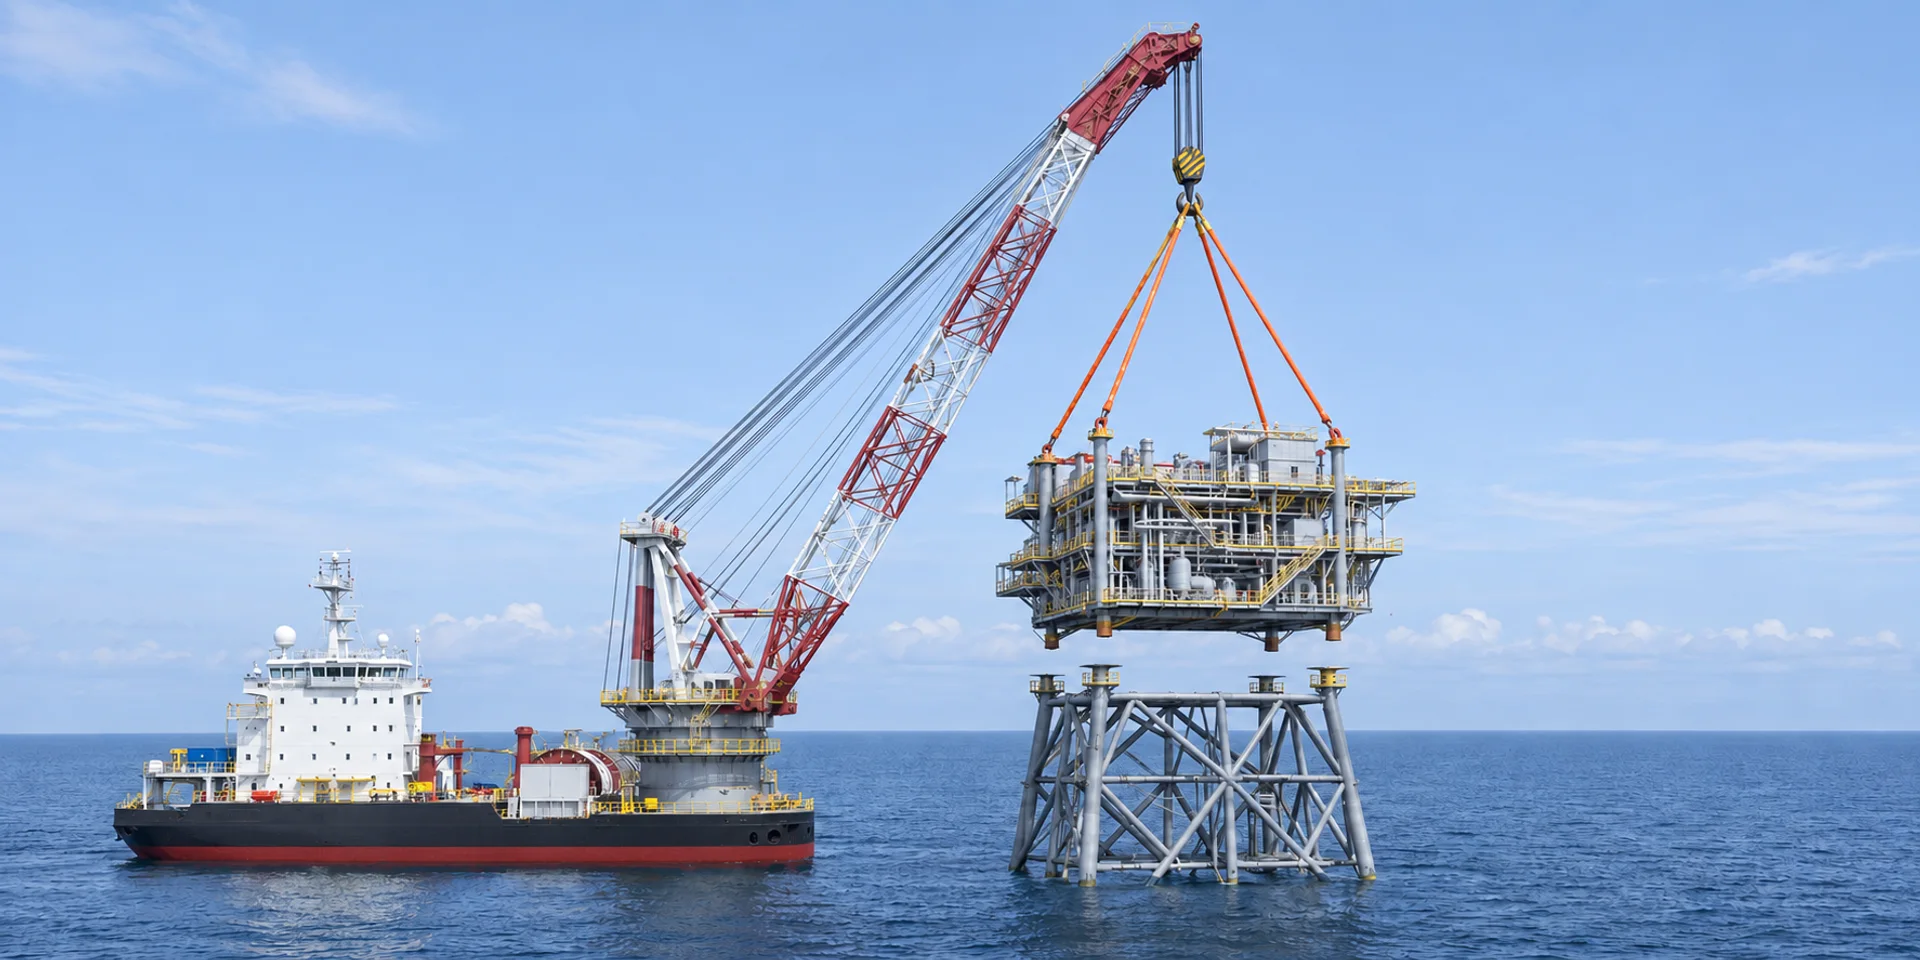
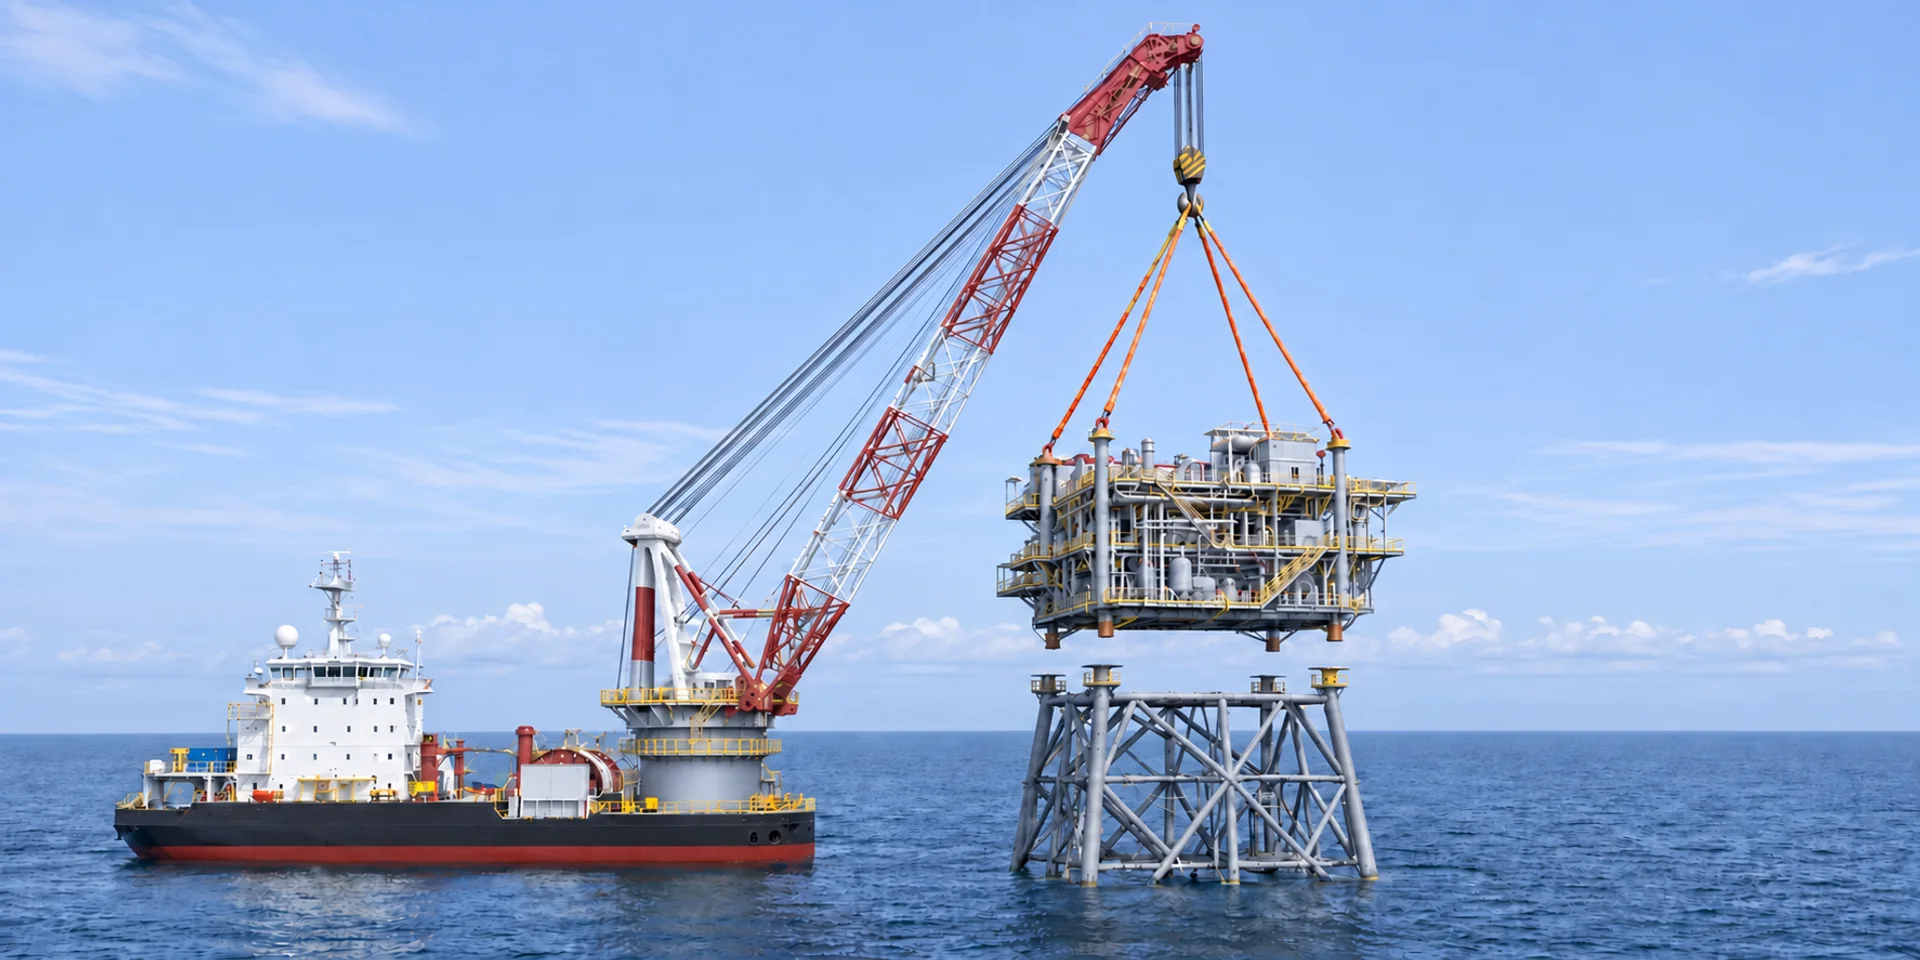
Journey: remove crane drum markings from development image

Changed region(s): [[0.0625, 0.0312, 1.0, 1.0], [0.0, 0.9062, 0.3438, 1.0]]

diff --git a/public/images/journey/README.md b/public/images/journey/README.md
@@ -12,7 +12,7 @@
 | --- | --- | --- | --- | --- |
 | journey-exploration.webp | 1600×1000 | 84 | 240122 | 0 |
 | journey-appraisal.webp | 1600×1000 | 84 | 178694 | 0 |
-| journey-development.webp | 1920×960 | 84 | 174174 | 1 |
+| journey-development.webp | 1920×960 | 84 | 158878 | 5 |
 | journey-production.webp | 1600×1000 | 84 | 290722 | 0 |
 | journey-decommissioning.webp | 1600×1000 | 84 | 215508 | 0 |
 
@@ -71,6 +71,32 @@ Fictional scene, not a real company, vessel or facility. No readable text, no nu
 Edit this fictional offshore installation photograph. Preserve the 2:1 framing, connected taut orange lifting slings, crane hook, complete topsides aligned over a steel jacket with legs entering the sea, lighting, sea and composition. Remove every painted white draft mark, vertical scale, cross-shaped marking, numeral-like marking and any glyph from the vessel hull, including near the bow, below the superstructure, and near the stern. Make the dark hull and red waterline completely plain and unmarked. Keep all equipment physically continuous and plausible. Fictional scene, not a real company, vessel or facility. No readable text, no numbers, no text-like markings, no hull names, no logos, no watermark, no borders, no visible faces.
 ```
 
+### journey-development · A-frame 윈치 드럼 표식 제거
+
+```text
+Edit only the small winch drum at the top of the crane's white A-frame, around x=640–690, y=515–535 in this 1920×960 photograph. Remove the red digit-like and logo-like painted marks on that drum and replace them with plain unmarked off-white paint matching the surrounding housing. Keep the drum shape, cables, railing, shading and mechanical details. Keep everything else unchanged: exact 2:1 composition and framing, vessel hull and superstructure, entire crane structure, connected lifting cables and orange slings, topsides, jacket legs and bracing, sky, sea, lighting and colors. Do not add any marks anywhere. Fictional scene, not a real company, vessel or facility. No readable text, no numbers, no text-like markings, no hull names, no logos, no watermark, no borders, no visible faces.
+```
+
+### journey-development · 크레인 페데스털 표식 제거 시도 (폐기)
+
+```text
+Make one tiny localized correction only to this fictional offshore installation photograph: on the pale gray cylindrical crane pedestal immediately above the deck railings, around x=720–740, y=785–800 in the 1920×960 source, remove the small dark bird-shaped/logo-like mark and replace it with continuous plain pale gray paint and natural shading. Keep the pedestal geometry and all railings unchanged. The winch drum at the top of the white A-frame must remain plain unmarked off-white paint. Preserve everything else: composition, vessel and its genuine round hawse openings, crane, cables, orange slings, topsides, jacket, sky, sea, lighting and color. Do not add letters, digits, logos, painted symbols or glyph-like markings anywhere. No readable text, no numbers, no text-like markings, no hull names, no logos, no watermark, no borders, no visible faces.
+```
+
+### journey-development · 크레인 페데스털 표식 제거 재시도
+
+```text
+Remove the small dark bird silhouette painted on the lowest pale gray cylindrical base of the crane, immediately ABOVE the yellow deck rail and just to the RIGHT of the white rectangular machinery housing. This is the lower crane pedestal on the ship, NOT the white A-frame winch high above it. Its lower curved gray surface must be entirely plain, smooth, unmarked gray paint with natural shading. Also keep the A-frame top winch drum entirely plain white without red markings. Change only this tiny painted silhouette. Keep the whole offshore installation photograph and all mechanical structures, vessels, crane, taut connected slings, topsides, jacket, sea and sky unchanged. No text, symbols, digits, logos, watermarks or glyph-like marks.
+```
+
+### journey-development · 윈치 드럼 붉은 표식 최종 제거
+
+```text
+Remove all red painted strokes from the small white winch drum/housing at the very top of the crane's white A-frame, just below the diagonal black suspension cables and above the white triangular supports. Make that small housing entirely plain off-white paint: absolutely no red dots, red strokes, lettering or logo-like paint there. Keep the lowest cylindrical gray crane pedestal plain and unmarked as it is now. Preserve everything else in the provided photograph, including composition, vessel, full crane, slings, module, jacket, sky and sea. No text, digits, logos, glyphs, watermark or borders.
+```
+
 ## 육안 검수
+
+2026-11-07 추가 검수: A-frame 상부 윈치 드럼의 붉은 숫자·로고형 표식을 내장 image_gen 수정 생성으로 제거했습니다. 확대 검사에서 발견한 하부 크레인 페데스털의 새 모양 표식도 제거했습니다. 첫 페데스털 수정본은 표식이 남아 폐기했고, 재시도 후 다시 생긴 드럼의 붉은 점을 최종 수정했습니다. 최종 WebP의 드럼 영역을 6배 확대하고 선체·상부 구조·페데스털·붐·후크를 확대해 확인했으며, 추가 글리프형 도장 표식은 발견하지 못했습니다. 선체의 둥근 계선용 개구부와 기계 부품·음영은 유지했습니다. 구도, 선박과 크레인, 연결된 슬링, 상부 설비와 재킷, 하늘과 바다는 유지했습니다.
 
 5장 모두 직접 확인했습니다. Exploration의 스트리머는 선미에서 이어지고, Appraisal의 코어는 원기둥·반원기둥 형태입니다. Development와 Decommissioning의 슬링은 후크에서 인양물까지 이어지며, Development의 재킷 다리는 물속으로 이어집니다. Production의 배관은 연결되어 있고 작업자는 뒷모습으로만 보입니다. 최초 Development 이미지의 선체 흘수 표식은 수정 생성으로 제거했습니다. 최종 이미지에서 글자·숫자·로고·얼굴이나 명백한 물리적 단절은 발견하지 못했습니다. 차분한 푸른 바다, 중성 강재와 노란 난간이 hero-surface.webp의 밝은 해양 현장 톤과 어울리는지 확인했습니다.
